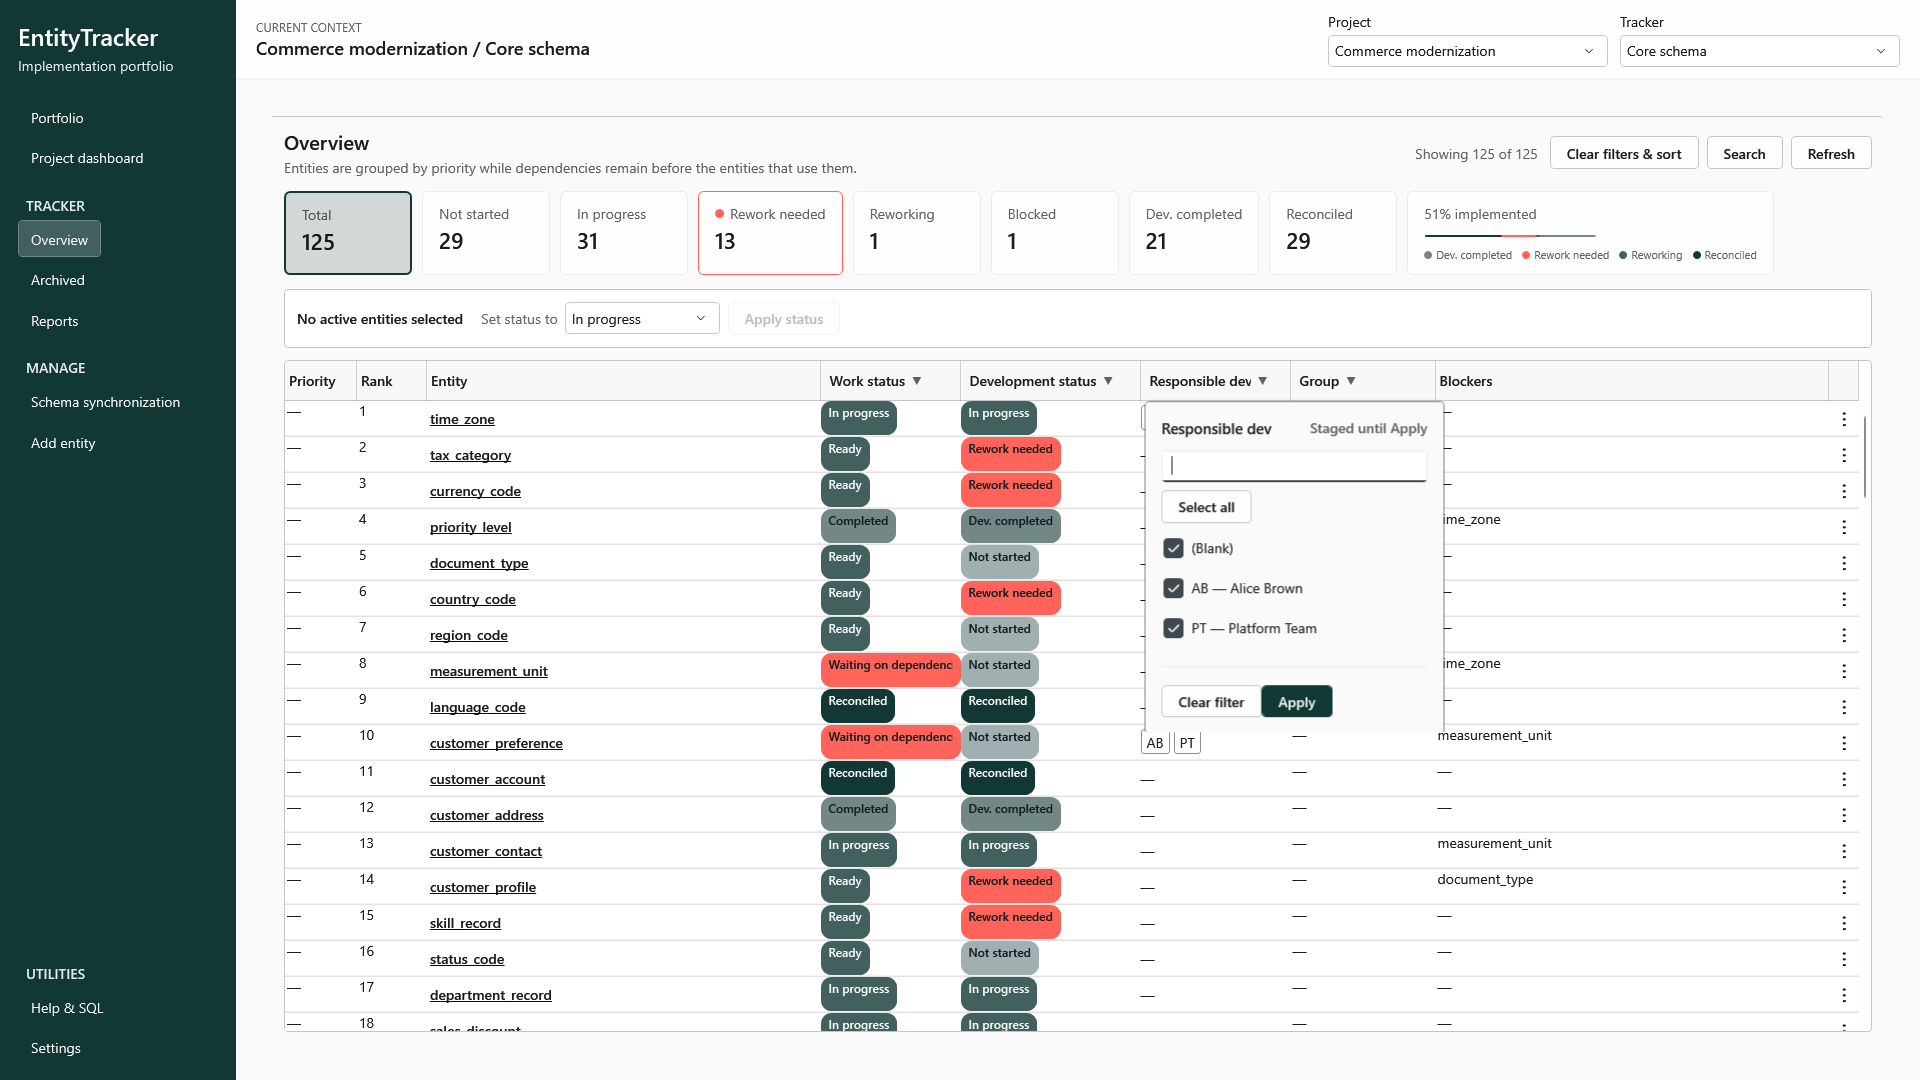
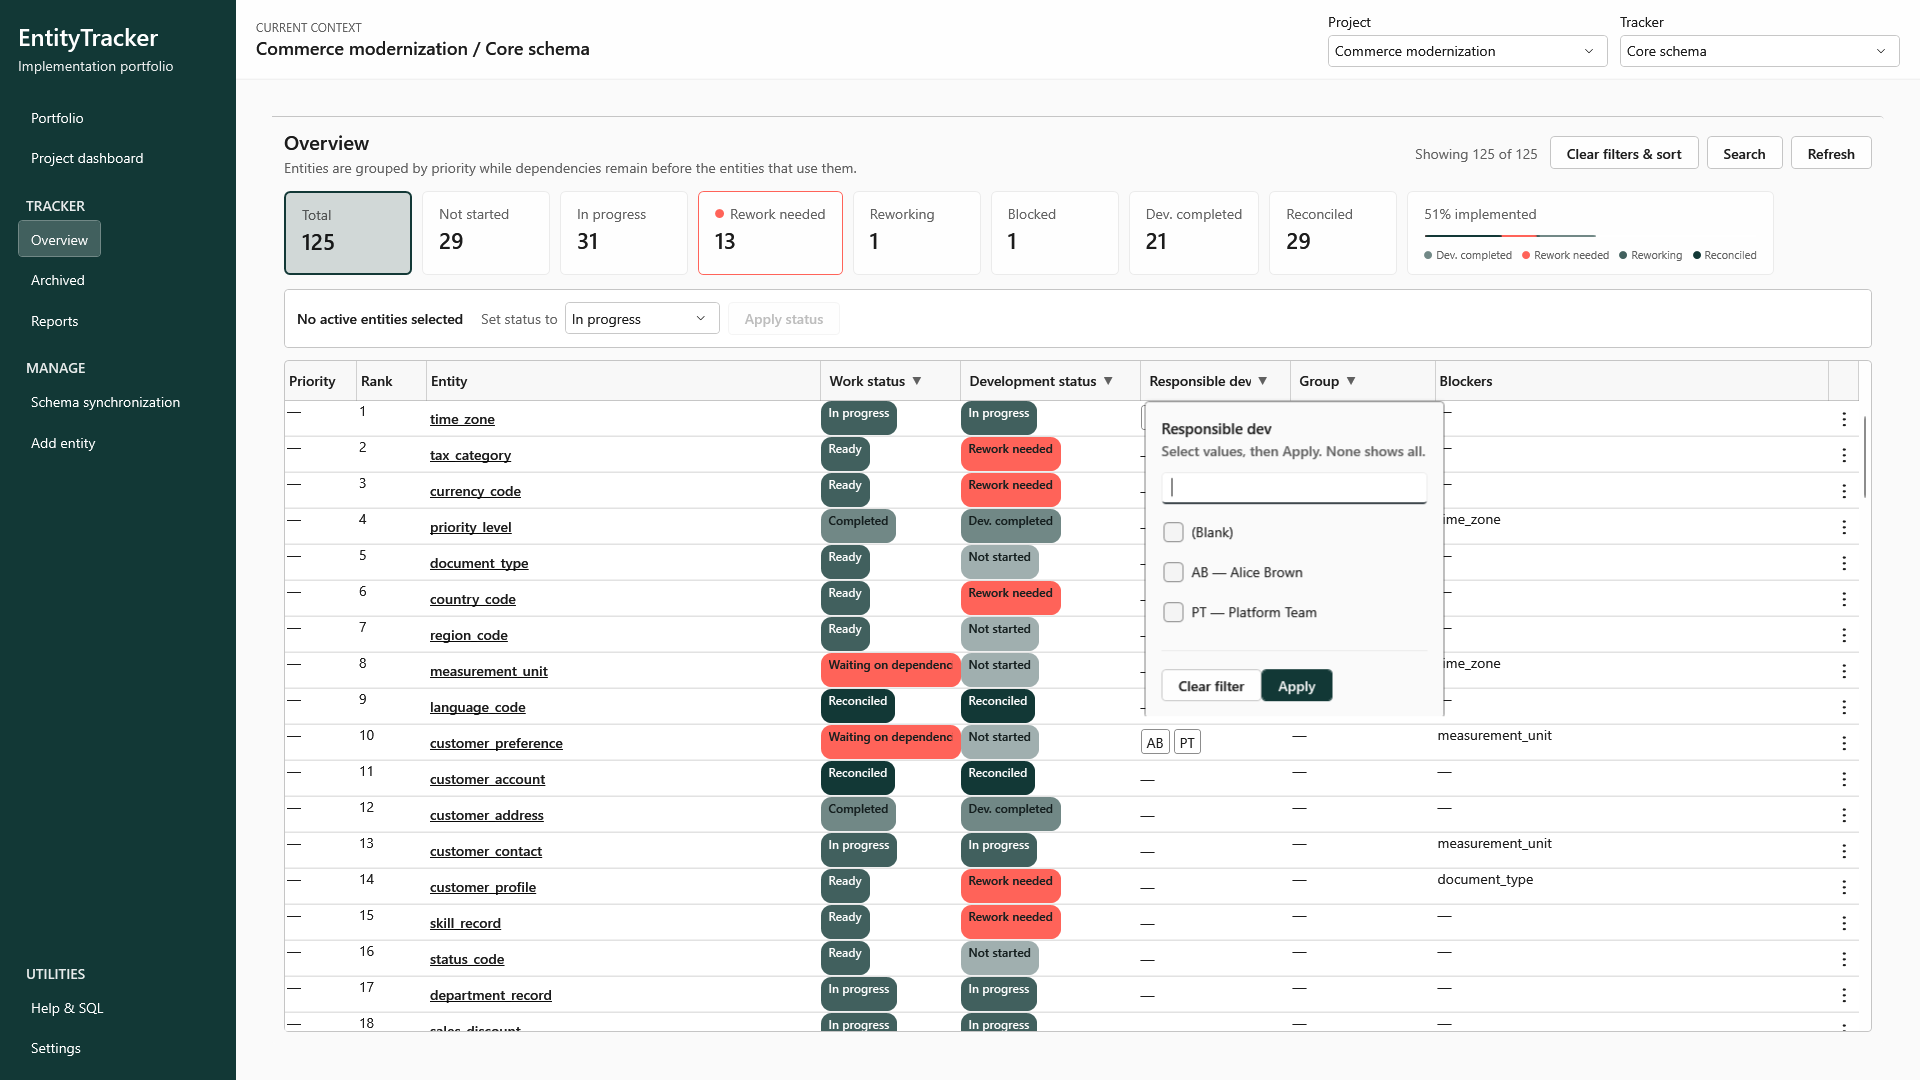
Milestone RESP-03.2

Changed region(s): [[0.5938, 0.3972, 0.75, 0.6722]]

diff --git a/src/EntityTracker.Wpf/Controls/FilterableColumnHeader.xaml b/src/EntityTracker.Wpf/Controls/FilterableColumnHeader.xaml
@@ -93,15 +93,16 @@
                         <RowDefinition Height="Auto" />
                     </Grid.RowDefinitions>
 
-                    <DockPanel Margin="0,0,0,12">
-                        <TextBlock DockPanel.Dock="Right"
-                                   Foreground="{DynamicResource Brush.Text.Secondary}"
-                                   Text="Staged until Apply" />
+                    <StackPanel Margin="0,0,0,12">
                         <TextBlock FontSize="15"
                                    FontWeight="SemiBold"
                                    Foreground="{DynamicResource Brush.Text.Primary}"
                                    Text="{Binding Title}" />
-                    </DockPanel>
+                        <TextBlock Margin="0,3,0,0"
+                                   Foreground="{DynamicResource Brush.Text.Secondary}"
+                                   Text="Select values, then Apply. None shows all."
+                                   TextWrapping="Wrap" />
+                    </StackPanel>
 
                     <StackPanel Grid.Row="1"
                                 Visibility="{Binding CanSort, Converter={StaticResource BooleanToVisibilityConverter}}">
@@ -137,11 +138,6 @@
                                   MaxHeight="220"
                                   VerticalScrollBarVisibility="Auto">
                         <StackPanel>
-                            <Button Margin="0,0,0,5"
-                                    HorizontalAlignment="Left"
-                                    Command="{Binding SelectAllCommand}"
-                                    Content="Select all"
-                                    Style="{StaticResource SecondaryButtonStyle}" />
                             <ItemsControl ItemsSource="{Binding VisibleOptions}">
                                 <ItemsControl.ItemTemplate>
                                     <DataTemplate>

diff --git a/tests/EntityTracker.Wpf.Tests/ViewModels/EntityTableViewModelTests.cs b/tests/EntityTracker.Wpf.Tests/ViewModels/EntityTableViewModelTests.cs
@@ -31,6 +31,15 @@ public sealed class EntityTableViewModelTests
         Assert.Equal(["Shared", "Unassigned"], active.Items.Select(row => row.SourceName));
         ApplyFilter(active.GroupFilter, "Core");
         Assert.Equal(2, active.Items.Count);
+        ApplyFilter(active.ResponsibleDeveloperFilter, "(Blank)");
+        Assert.Equal("Unassigned", Assert.Single(active.Items).SourceName);
+        active.ResponsibleDeveloperFilter.OpenCommand.Execute(null);
+        active.ResponsibleDeveloperFilter.ClearFilterCommand.Execute(null);
+        Assert.True(active.ResponsibleDeveloperFilter.IsOpen);
+        Assert.All(active.ResponsibleDeveloperFilter.Options,
+            option => Assert.False(option.IsSelected));
+        Assert.Equal(2, active.Items.Count);
+        active.ResponsibleDeveloperFilter.IsOpen = false;
 
         EntityTableViewModel archived = EntityTableViewModel.CreateArchived();
         archived.ReplaceSourceItems([assigned with { LifecycleState = EntityLifecycleState.Archived },
@@ -55,7 +64,9 @@ public sealed class EntityTableViewModelTests
         ]);
         table.ResponsibleDeveloperFilter.OpenCommand.Execute(null);
         Assert.Equal(2, table.ResponsibleDeveloperFilter.Options.Count);
-        table.ResponsibleDeveloperFilter.Options[1].IsSelected = false;
+        Assert.All(table.ResponsibleDeveloperFilter.Options,
+            option => Assert.False(option.IsSelected));
+        table.ResponsibleDeveloperFilter.Options[0].IsSelected = true;
         table.ResponsibleDeveloperFilter.ApplyCommand.Execute(null);
         Assert.Equal("First", Assert.Single(table.Items).SourceName);
 
@@ -167,7 +178,33 @@ public sealed class EntityTableViewModelTests
     }
 
     [Fact]
-    public void FilterMenus_AreStagedSupportZeroSelectionsSelectAllAndClear()
+    public void EveryOverviewColumnStartsUncheckedAndNoSelectionKeepsAllRows()
+    {
+        EntityOverviewRow activeRow = Row(1, "Active", "Alice", "Core",
+            DevelopmentStatus.NotStarted, EntityWorkflowState.Ready);
+        EntityOverviewRow archivedRow = Row(2, "Archived", "", "",
+            DevelopmentStatus.Reconciled, EntityWorkflowState.Archived, archived: true);
+        EntityTableViewModel active = EntityTableViewModel.CreateActive();
+        EntityTableViewModel archived = EntityTableViewModel.CreateArchived();
+        active.ReplaceSourceItems([activeRow]);
+        archived.ReplaceSourceItems([archivedRow]);
+
+        foreach (EntityTableViewModel table in new[] { active, archived })
+        {
+            foreach (OverviewColumnFilterState filter in table.Filters)
+            {
+                filter.OpenCommand.Execute(null);
+                Assert.NotEmpty(filter.Options);
+                Assert.All(filter.Options, option => Assert.False(option.IsSelected));
+                filter.ApplyCommand.Execute(null);
+                Assert.False(filter.IsApplied);
+                Assert.Single(table.Items);
+            }
+        }
+    }
+
+    [Fact]
+    public void FilterMenus_AreStagedAndNoSelectionShowsAll()
     {
         EntityTableViewModel table = EntityTableViewModel.CreateActive();
         table.ReplaceSourceItems(
@@ -179,32 +216,86 @@ public sealed class EntityTableViewModelTests
         ]);
 
         table.GroupFilter.OpenCommand.Execute(null);
-        table.GroupFilter.Options.Single(option => option.DisplayName == "Core").IsSelected = false;
+        Assert.All(table.GroupFilter.Options, option => Assert.False(option.IsSelected));
+        table.GroupFilter.Options.Single(option => option.DisplayName == "Core").IsSelected = true;
         table.GroupFilter.IsOpen = false;
 
         Assert.False(table.GroupFilter.IsApplied);
         Assert.Equal(2, table.Items.Count);
 
         table.GroupFilter.OpenCommand.Execute(null);
-        foreach (OverviewFilterOption option in table.GroupFilter.Options)
-        {
-            option.IsSelected = false;
-        }
-
-        table.GroupFilter.ApplyCommand.Execute(null);
-        Assert.True(table.GroupFilter.IsApplied);
-        Assert.Empty(table.Items);
-
-        table.GroupFilter.OpenCommand.Execute(null);
-        table.GroupFilter.SelectAllCommand.Execute(null);
         table.GroupFilter.ApplyCommand.Execute(null);
         Assert.False(table.GroupFilter.IsApplied);
         Assert.Equal(2, table.Items.Count);
 
         ApplyFilter(table.GroupFilter, "Billing");
-        table.GroupFilter.ClearFilterCommand.Execute(null);
+        Assert.Equal("One", Assert.Single(table.Items).SourceName);
+        table.GroupFilter.OpenCommand.Execute(null);
+        Assert.True(table.GroupFilter.Options.Single(option =>
+            option.DisplayName == "Billing").IsSelected);
+        table.GroupFilter.Options.Single(option => option.DisplayName == "Billing")
+            .IsSelected = false;
+        table.GroupFilter.ApplyCommand.Execute(null);
         Assert.False(table.GroupFilter.IsApplied);
         Assert.Equal(2, table.Items.Count);
+    }
+
+    [Fact]
+    public void ClearFilter_UnchecksHiddenValuesAndKeepsMenuOpen()
+    {
+        EntityTableViewModel table = EntityTableViewModel.CreateActive();
+        table.ReplaceSourceItems(
+        [
+            Row(1, "One", "Alice", "Billing", DevelopmentStatus.NotStarted,
+                EntityWorkflowState.Ready),
+            Row(2, "Two", "Bob", "Core", DevelopmentStatus.InProgress,
+                EntityWorkflowState.InProgress)
+        ]);
+        ApplyFilter(table.GroupFilter, "Billing");
+        table.GroupFilter.OpenCommand.Execute(null);
+        table.GroupFilter.OptionSearchQuery = "Core";
+        Assert.Equal("Core", Assert.Single(table.GroupFilter.VisibleOptions).DisplayName);
+        table.GroupFilter.ClearFilterCommand.Execute(null);
+
+        Assert.False(table.GroupFilter.IsApplied);
+        Assert.True(table.GroupFilter.IsOpen);
+        Assert.Empty(table.GroupFilter.OptionSearchQuery);
+        Assert.Equal(2, table.GroupFilter.VisibleOptions.Count);
+        Assert.All(table.GroupFilter.Options, option => Assert.False(option.IsSelected));
+        Assert.Equal(2, table.Items.Count);
+
+        table.GroupFilter.Options.Single(option => option.DisplayName == "Core").IsSelected = true;
+        table.GroupFilter.ApplyCommand.Execute(null);
+        Assert.False(table.GroupFilter.IsOpen);
+        Assert.Equal("Two", Assert.Single(table.Items).SourceName);
+    }
+
+    [Fact]
+    public void SelectingEveryValueRemainsAnAppliedFilterWhenNewValuesArrive()
+    {
+        EntityTableViewModel table = EntityTableViewModel.CreateActive();
+        table.ReplaceSourceItems(
+        [
+            Row(1, "One", "Alice", "Billing", DevelopmentStatus.NotStarted,
+                EntityWorkflowState.Ready),
+            Row(2, "Two", "Bob", "Core", DevelopmentStatus.InProgress,
+                EntityWorkflowState.InProgress)
+        ]);
+
+        ApplyFilter(table.GroupFilter, "Billing", "Core");
+        Assert.True(table.GroupFilter.IsApplied);
+        Assert.Equal(2, table.Items.Count);
+        table.ReplaceSourceItems(
+        [
+            Row(1, "One", "Alice", "Billing", DevelopmentStatus.NotStarted,
+                EntityWorkflowState.Ready),
+            Row(2, "Two", "Bob", "Core", DevelopmentStatus.InProgress,
+                EntityWorkflowState.InProgress),
+            Row(3, "Three", "Cara", "New", DevelopmentStatus.NotStarted,
+                EntityWorkflowState.Ready)
+        ]);
+
+        Assert.Equal(["One", "Two"], table.Items.Select(row => row.SourceName));
     }
 
     [Fact]

diff --git a/src/EntityTracker.Wpf/ViewModels/OverviewColumnFilterState.cs b/src/EntityTracker.Wpf/ViewModels/OverviewColumnFilterState.cs
@@ -27,7 +27,6 @@ public abstract class OverviewColumnFilterState : INotifyPropertyChanged
         OpenCommand = new RelayCommand(() => _owner.OpenFilter(this));
         ApplyCommand = new RelayCommand(Apply);
         ClearFilterCommand = new RelayCommand(ClearFilter);
-        SelectAllCommand = new RelayCommand(SelectAll);
         SortAscendingCommand = new RelayCommand(
             () => SetSort(OverviewSortDirection.Ascending),
             () => CanSort);
@@ -122,8 +121,6 @@ public abstract class OverviewColumnFilterState : INotifyPropertyChanged
 
     public ICommand ClearFilterCommand { get; }
 
-    public ICommand SelectAllCommand { get; }
-
     public ICommand SortAscendingCommand { get; }
 
     public ICommand SortDescendingCommand { get; }
@@ -171,17 +168,14 @@ public abstract class OverviewColumnFilterState : INotifyPropertyChanged
 
     private void ClearFilter()
     {
-        ClearAppliedSelection();
-        _owner.ApplyFilterChange();
-        IsOpen = false;
-    }
-
-    private void SelectAll()
-    {
         foreach (OverviewFilterOption option in Options)
         {
-            option.IsSelected = true;
+            option.IsSelected = false;
         }
+
+        OptionSearchQuery = string.Empty;
+        ClearAppliedSelection();
+        _owner.ApplyFilterChange();
     }
 
     private void SetSort(OverviewSortDirection direction)
@@ -271,7 +265,7 @@ internal sealed class OverviewColumnFilterState<T> : OverviewColumnFilterState
             .Select(value => new OverviewFilterOption(
                 value,
                 _display(value),
-                _appliedSelection is null || _appliedSelection.Contains(value)))
+                _appliedSelection?.Contains(value) == true))
             .ToArray());
     }
 
@@ -282,7 +276,7 @@ internal sealed class OverviewColumnFilterState<T> : OverviewColumnFilterState
             .Select(option => (T)option.Value!)
             .ToArray();
 
-        _appliedSelection = Options.Count > 0 && selected.Length == Options.Count
+        _appliedSelection = selected.Length == 0
             ? null
             : new HashSet<T>(selected, _equalityComparer);
         NotifyAppliedChanged();

diff --git a/src/EntityTracker.Wpf/ViewModels/ResponsibleDeveloperFilterState.cs b/src/EntityTracker.Wpf/ViewModels/ResponsibleDeveloperFilterState.cs
@@ -37,7 +37,7 @@ internal sealed class ResponsibleDeveloperFilterState(EntityTableViewModel owner
         {
             DeveloperFilterValue blank = DeveloperFilterValue.Blank;
             options.Add(new OverviewFilterOption(blank, "(Blank)",
-                _appliedSelection is null || _appliedSelection.Contains(blank)));
+                _appliedSelection?.Contains(blank) == true));
         }
 
         options.AddRange(developers.Values
@@ -48,7 +48,7 @@ internal sealed class ResponsibleDeveloperFilterState(EntityTableViewModel owner
             {
                 DeveloperFilterValue value = new(developer.Id);
                 return new OverviewFilterOption(value, developer.Label,
-                    _appliedSelection is null || _appliedSelection.Contains(value));
+                    _appliedSelection?.Contains(value) == true);
             }));
         SetOptions(options);
     }
@@ -58,8 +58,7 @@ internal sealed class ResponsibleDeveloperFilterState(EntityTableViewModel owner
         DeveloperFilterValue[] selected = Options.Where(static option => option.IsSelected)
             .Select(static option => (DeveloperFilterValue)option.Value!)
             .ToArray();
-        _appliedSelection = Options.Count > 0 && selected.Length == Options.Count
-            ? null : selected.ToHashSet();
+        _appliedSelection = selected.Length == 0 ? null : selected.ToHashSet();
         NotifyAppliedChanged();
     }
 

diff --git a/tools/EntityTracker.Screenshots/ReadmeScreenshotGenerator.cs b/tools/EntityTracker.Screenshots/ReadmeScreenshotGenerator.cs
@@ -461,6 +461,20 @@ internal sealed class ReadmeScreenshotGenerator
         await Task.Delay(300, cancellationToken);
         OverviewColumnFilterState responsibleFilter = viewModel.ActiveTable.ResponsibleDeveloperFilter;
         responsibleFilter.OpenCommand.Execute(null);
+        if (responsibleFilter.Options.Count == 0 ||
+            responsibleFilter.Options.Any(static option => option.IsSelected))
+            throw new InvalidDataException(
+                "The responsible filter did not open with unchecked choices.");
+        responsibleFilter.Options.Single(static option =>
+            option.DisplayName == "AB — Alice Brown").IsSelected = true;
+        responsibleFilter.ApplyCommand.Execute(null);
+        await Task.Delay(300, cancellationToken);
+        responsibleFilter.OpenCommand.Execute(null);
+        responsibleFilter.ClearFilterCommand.Execute(null);
+        if (!responsibleFilter.IsOpen || responsibleFilter.IsApplied ||
+            responsibleFilter.Options.Any(static option => option.IsSelected))
+            throw new InvalidDataException(
+                "Clearing the responsible filter did not leave the menu open and unchecked.");
         await renderer.CaptureOpenPopupAsync("overview-filter-flyout.png");
         responsibleFilter.CloseWithoutApplying();
         OverviewColumnFilterState workStatusFilter = viewModel.ActiveTable.WorkStatusFilter!;

diff --git a/docs/milestones/product-feedback/pf_05_column_filtering.md b/docs/milestones/product-feedback/pf_05_column_filtering.md
@@ -23,10 +23,12 @@ each header.
 Each filterable header shows a dropdown action. The menu contains:
 
 - a search field for the column's available values;
-- `Select all`;
 - a checkbox for every available distinct value;
 - a `(Blank)` option for an empty responsible developer or group;
 - explicit `Apply` and `Clear filter` actions.
+
+Current follow-up behavior: with no values checked, all rows are shown. Checked values opt in to that
+column's filter. `Clear filter` unchecks every value and keeps the menu open.
 
 Closing the menu without applying must not change the active filter. A filtered header uses an
 accented filter indicator. The table also provides a visible `Clear all filters` action.
@@ -110,7 +112,7 @@ Only `Status` and `Work status` support sorting. Responsible developer and Group
 - Verify available-value lists honor search and all other filters while ignoring their own applied
   selection.
 - Verify case-insensitive metadata matching and deduplication, preserved display casing, `(Blank)`,
-  value search, Select all, Apply, Clear, and closing without Apply.
+  value search, unchecked defaults, Apply, Clear, and closing without Apply.
 - Verify filter indicators, result summaries, filtered empty states, `Clear all filters`, refresh,
   and editing while filters are active.
 - Verify summary-card shortcuts preserve other column filters, while Total clears column filters and

diff --git a/README.md b/README.md
@@ -197,8 +197,10 @@ exact Tracker name, and starts with focus on the safe Cancel action.
 Use the dropdown on a supported column header to select individual current Project Developers,
 groups, statuses, or work statuses. An entity with several Developers appears under each one;
 **(Blank)** finds entities with no current Developer. Selections within a column are alternatives,
-while filters on different columns work together. Status summary cards remain useful one-click
-shortcuts. Ordinary search matches entity names and, by default, current Developer initials and
+while filters on different columns work together. With no values checked, all rows are shown; choose values
+and press **Apply** to narrow the list. **Clear filter** unchecks every value and leaves the menu
+open. Status summary cards remain useful one-click shortcuts. Ordinary search matches entity names
+and, by default, current Developer initials and
 display names. Turn off **Search responsible names** in Settings to search entity names only.
 **Search dependency names** remains a separate mode. Open search with <kbd>Ctrl</kbd>+<kbd>F</kbd>.
 

diff --git a/docs/GETTING_STARTED.md b/docs/GETTING_STARTED.md
@@ -91,8 +91,10 @@ Removing a developer ends their current period; assigning them again starts a ne
 developer from the Project dashboard ends all their open assignments, including on archived
 entities. The active and archived overviews show each current Developer separately. Use the
 **Responsible dev** column filter to find one or more Developers or **(Blank)** for unassigned
-entities. Ordinary search includes current Developer initials and display names by default; turn
-off **Search responsible names** in Settings to search entity names only. **Search dependency
+entities. All overview column filters start with no checked values, which shows all rows. Check
+the values you want and choose **Apply**; **Clear filter** unchecks them and keeps the menu open.
+Ordinary search includes current Developer initials and display names by default; turn off
+**Search responsible names** in Settings to search entity names only. **Search dependency
 names** remains a separate search mode.
 
 ### Sync a copied tracker
